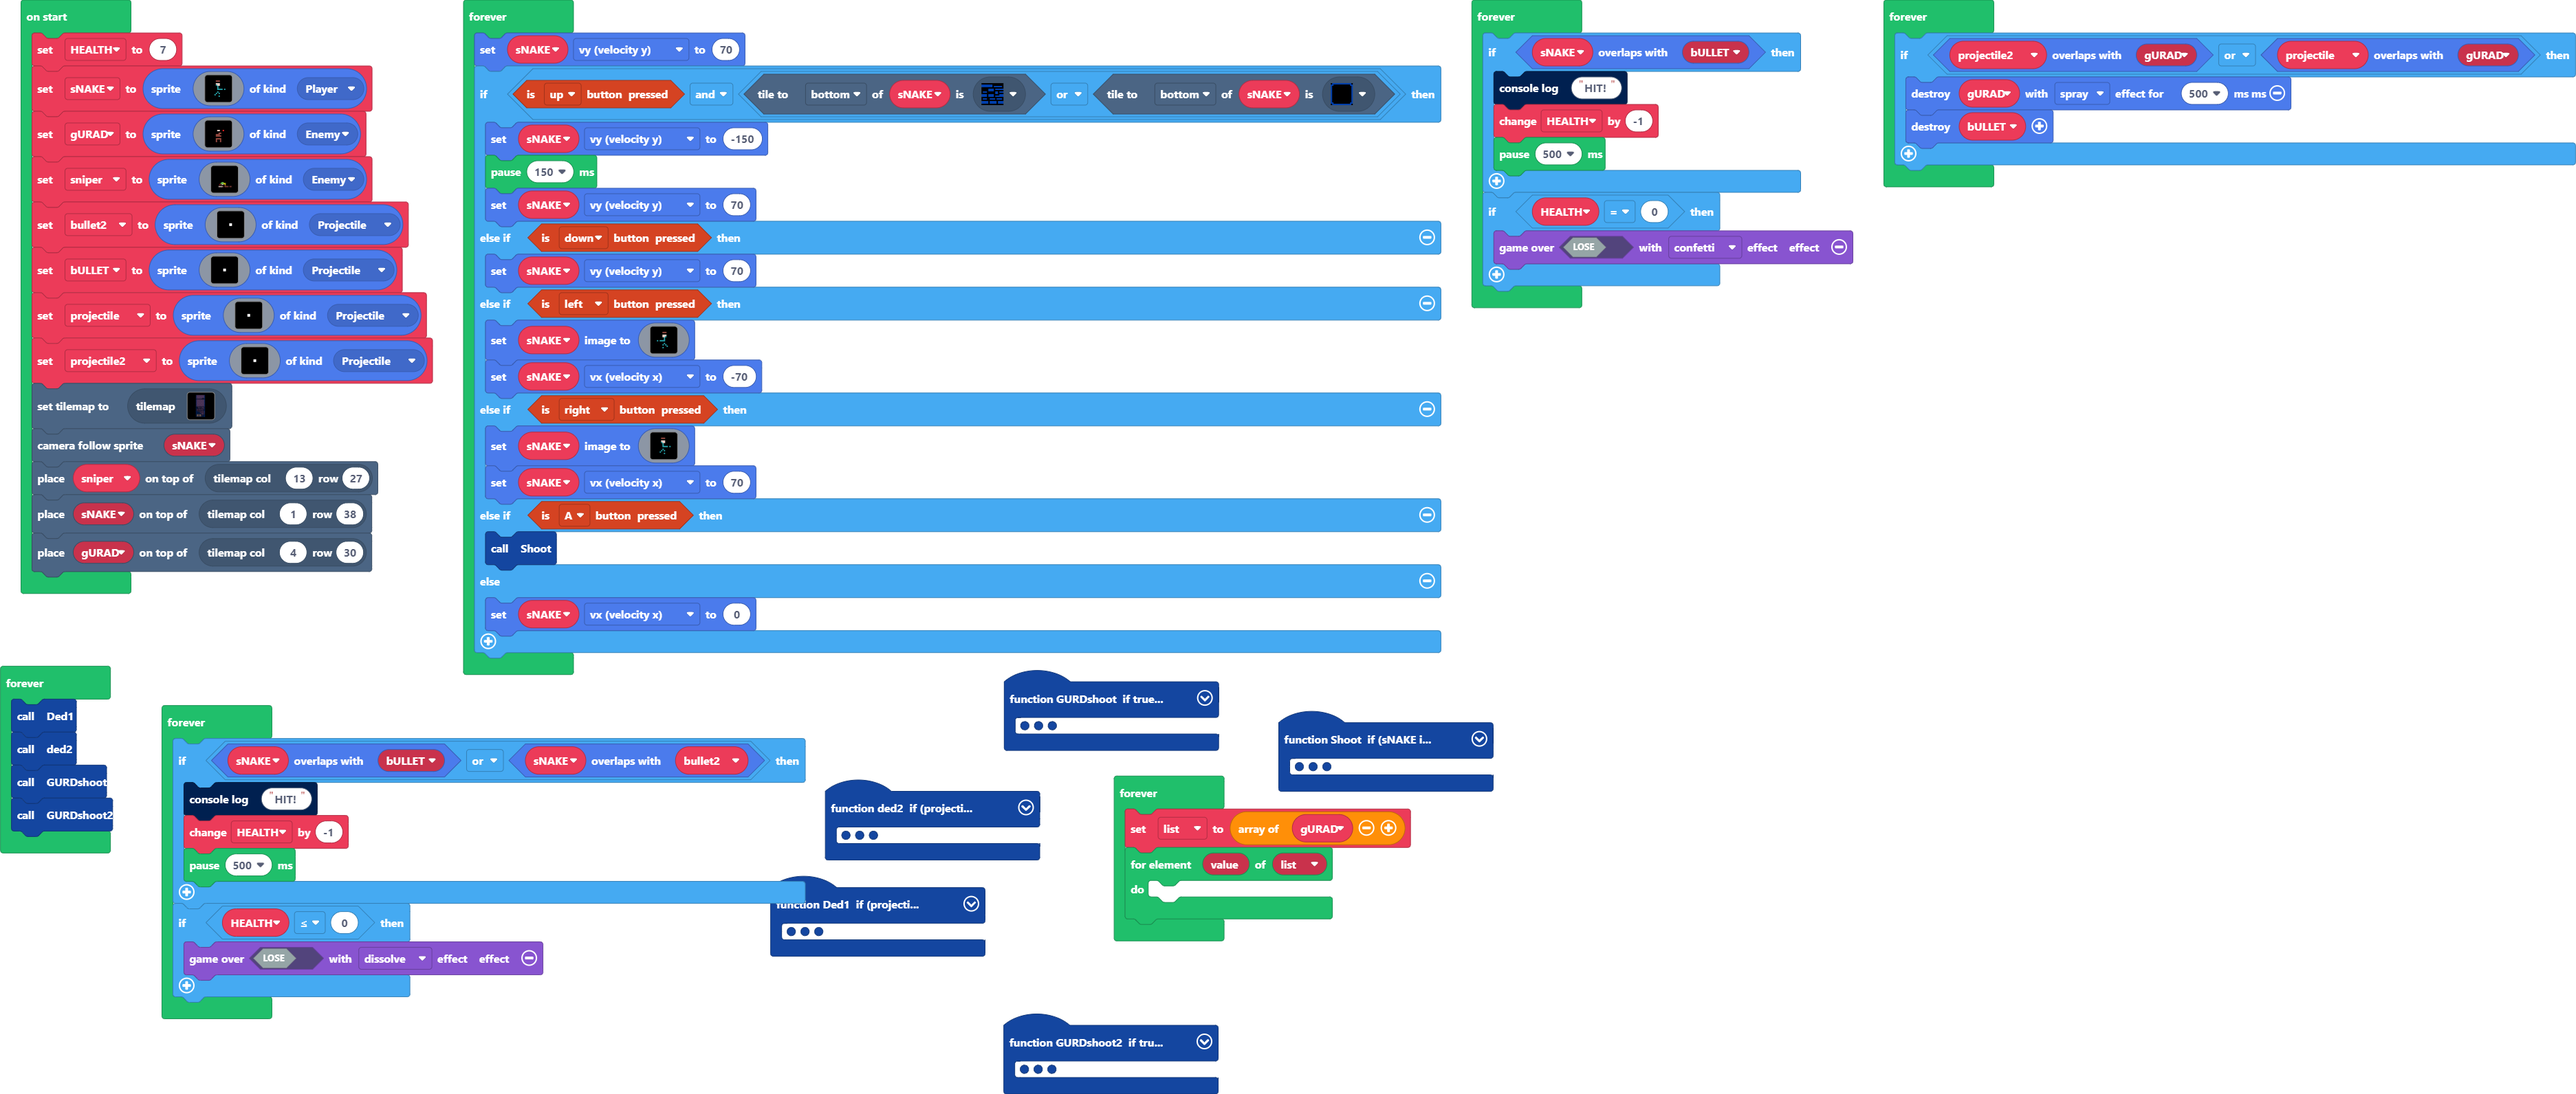
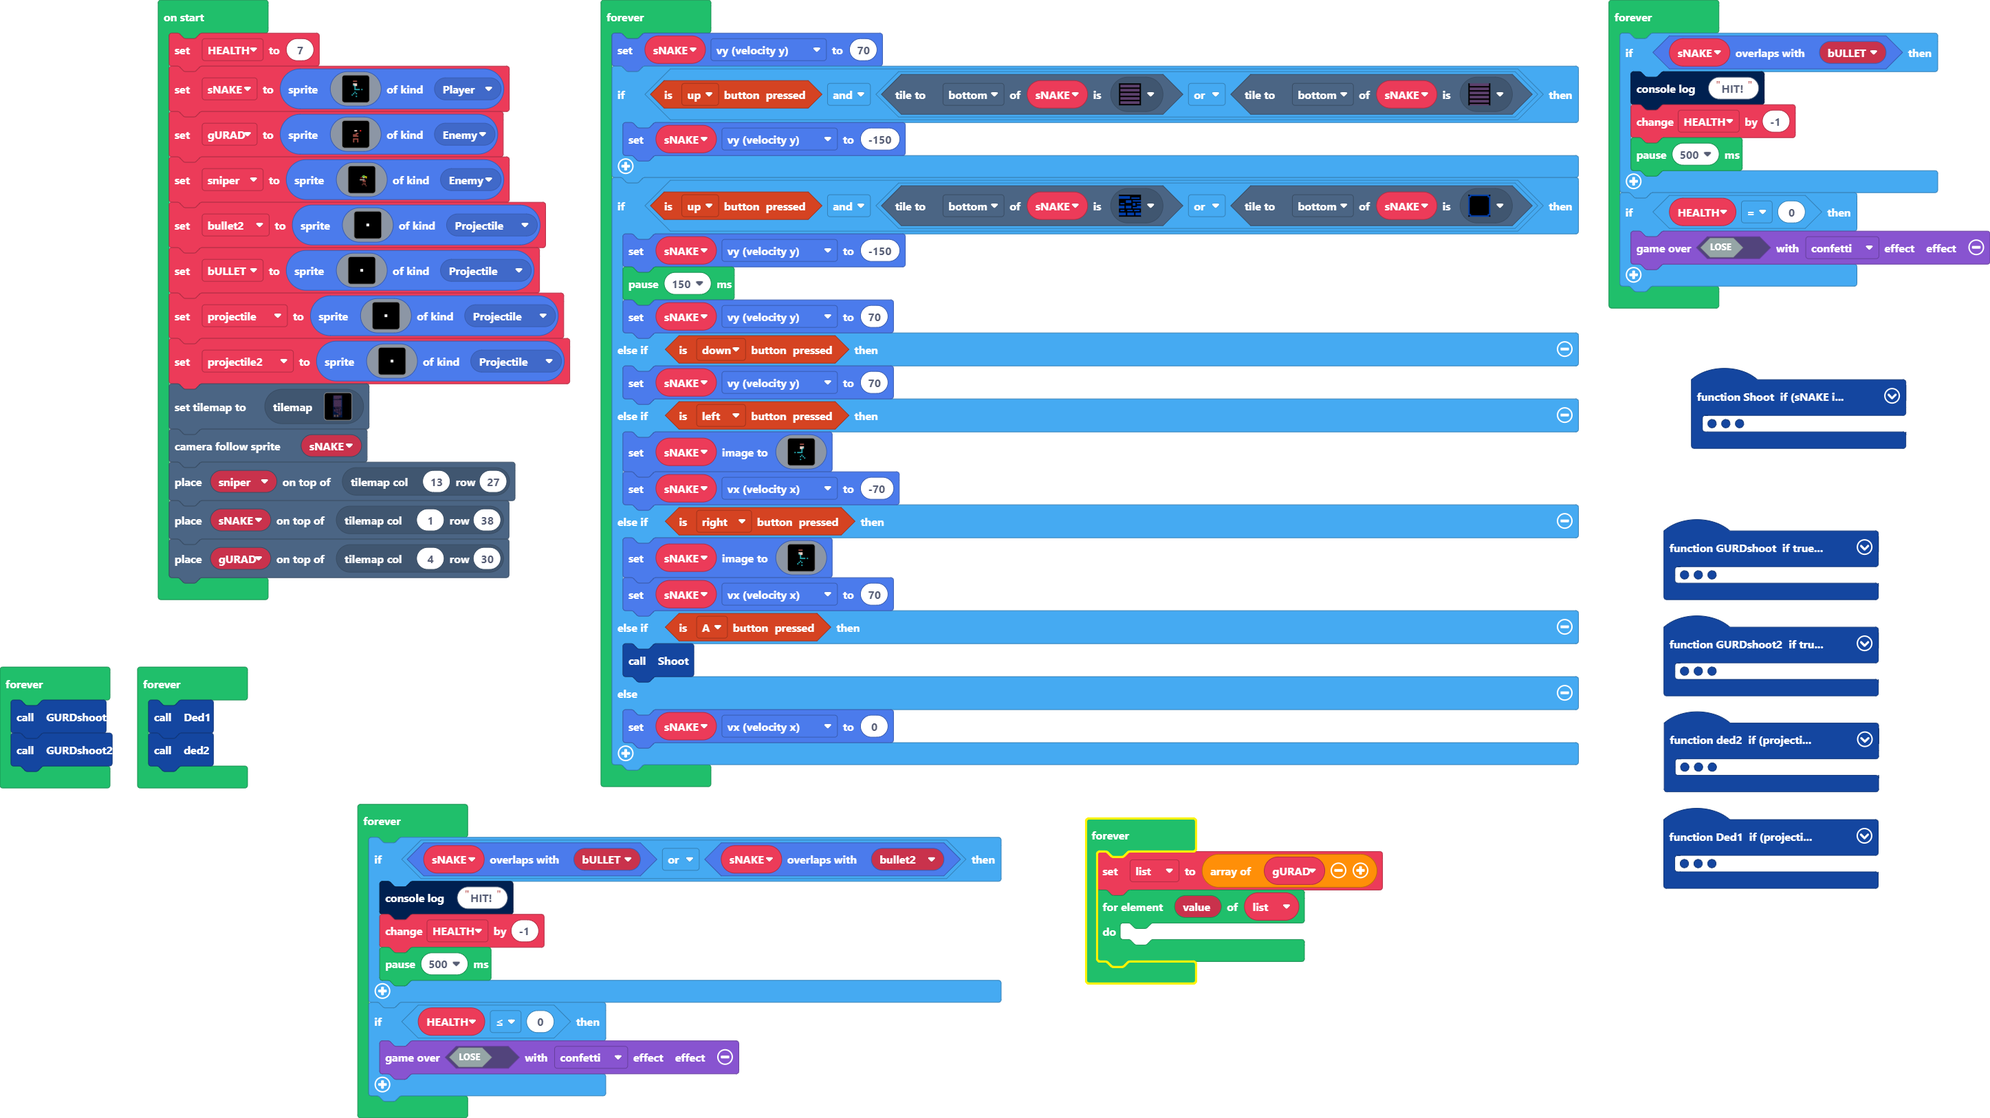
Update main.blocks, main.ts, tilemap.g.jres, tilemap.g.ts, images.g.jres, images.g.ts

diff --git a/tilemap.g.ts b/tilemap.g.ts
@@ -22,11 +22,17 @@ namespace myTiles {
     export const tile3 = image.ofBuffer(hex``);
     //% fixedInstance jres blockIdentity=images._tile
     export const tile11 = image.ofBuffer(hex``);
+    //% fixedInstance jres blockIdentity=images._tile
+    export const tile7 = image.ofBuffer(hex``);
+    //% fixedInstance jres blockIdentity=images._tile
+    export const tile12 = image.ofBuffer(hex``);
+    //% fixedInstance jres blockIdentity=images._tile
+    export const tile13 = image.ofBuffer(hex``);
 
     helpers._registerFactory("tilemap", function(name: string) {
         switch(helpers.stringTrim(name)) {
             case "level1":
[2 lines of base64/hex data omitted]
 2..............2
 2..............2
 2..............2
@@ -52,22 +58,22 @@ namespace myTiles {
 222............2
 2222...........2
 2222222222222..2
-2.............22
-2............222
-2.............22
+2............2.2
+2............2.2
+2..............2
 2...222222222222
 222............2
-22.2...........2
-22..222........2
-222....2.......2
-222.....2......2
-222......2.....2
+2222...........2
+2222222........2
+22222222.......2
+222222222......2
+2222222222.....2
 2........222..22
 2............2.2
-2...........2..2
+2...2.2.....2..2
 2.........222..2
 2222222222222222
-`, [myTiles.transparency16,myTiles.tile1,myTiles.tile2,myTiles.tile3,myTiles.tile4,myTiles.tile6,myTiles.tile8,myTiles.tile9,myTiles.tile10,myTiles.tile5,myTiles.tile11], TileScale.Sixteen);
+`, [myTiles.transparency16,myTiles.tile1,myTiles.tile2,myTiles.tile3,myTiles.tile4,myTiles.tile6,myTiles.tile8,myTiles.tile9,myTiles.tile10,myTiles.tile5,myTiles.tile11,myTiles.tile7,myTiles.tile12,myTiles.tile13], TileScale.Sixteen);
         }
         return null;
     })
@@ -95,6 +101,12 @@ namespace myTiles {
             case "tile3":return tile3;
             case "containr":
             case "tile11":return tile11;
+            case "whatathrill1":
+            case "tile7":return tile7;
+            case "whatathrill2":
+            case "tile12":return tile12;
+            case "myTile0":
+            case "tile13":return tile13;
         }
         return null;
     })

diff --git a/main.ts b/main.ts
@@ -60,6 +60,9 @@ tiles.placeOnTile(sNAKE, tiles.getTileLocation(1, 38))
 tiles.placeOnTile(gURAD, tiles.getTileLocation(4, 30))
 forever(function () {
     sNAKE.vy = 70
+    if (controller.up.isPressed() && (sNAKE.tileKindAt(TileDirection.Bottom, assets.tile`whatathrill1`) || sNAKE.tileKindAt(TileDirection.Bottom, assets.tile`whatathrill2`))) {
+        sNAKE.vy = -150
+    }
     if (controller.up.isPressed() && (sNAKE.tileKindAt(TileDirection.Bottom, assets.tile`myTile`) || sNAKE.tileKindAt(TileDirection.Bottom, assets.tile`myTi`))) {
         sNAKE.vy = -150
         pause(150)
@@ -89,16 +92,12 @@ forever(function () {
     }
 })
 forever(function () {
-    if (projectile2.overlapsWith(gURAD) || projectile.overlapsWith(gURAD)) {
-        gURAD.destroy(effects.spray, 500)
-        bULLET.destroy()
-    }
+    GURDshoot()
+    GURDshoot2()
 })
 forever(function () {
     Ded1()
     ded2()
-    GURDshoot()
-    GURDshoot2()
 })
 forever(function () {
     if (sNAKE.overlapsWith(bULLET) || sNAKE.overlapsWith(bullet2)) {
@@ -107,7 +106,7 @@ forever(function () {
         pause(500)
     }
     if (HEALTH <= 0) {
-        game.over(false, effects.dissolve)
+        game.over(false, effects.confetti)
     }
 })
 forever(function () {

diff --git a/images.g.ts b/images.g.ts
@@ -179,18 +179,18 @@ namespace myImages {
 ......................
 ......................
 ......................
-......................
-......................
-......................
-......................
-......................
-......................
-......................
-........77............
-.......77755..........
-......2fdd.5..........
-fffffffffffe..........
-.f...ddddefeeeefeef...
+............77........
+...........77755......
+..........2fdd.5......
+..fffffffffffff.......
+........fdddddf.......
+............eee.......
+............eee.......
+............fff.......
+...........feee.......
+...........e..e.......
+...........f..feff....
+..........ff.....f....
 `;
         }
         return null;
